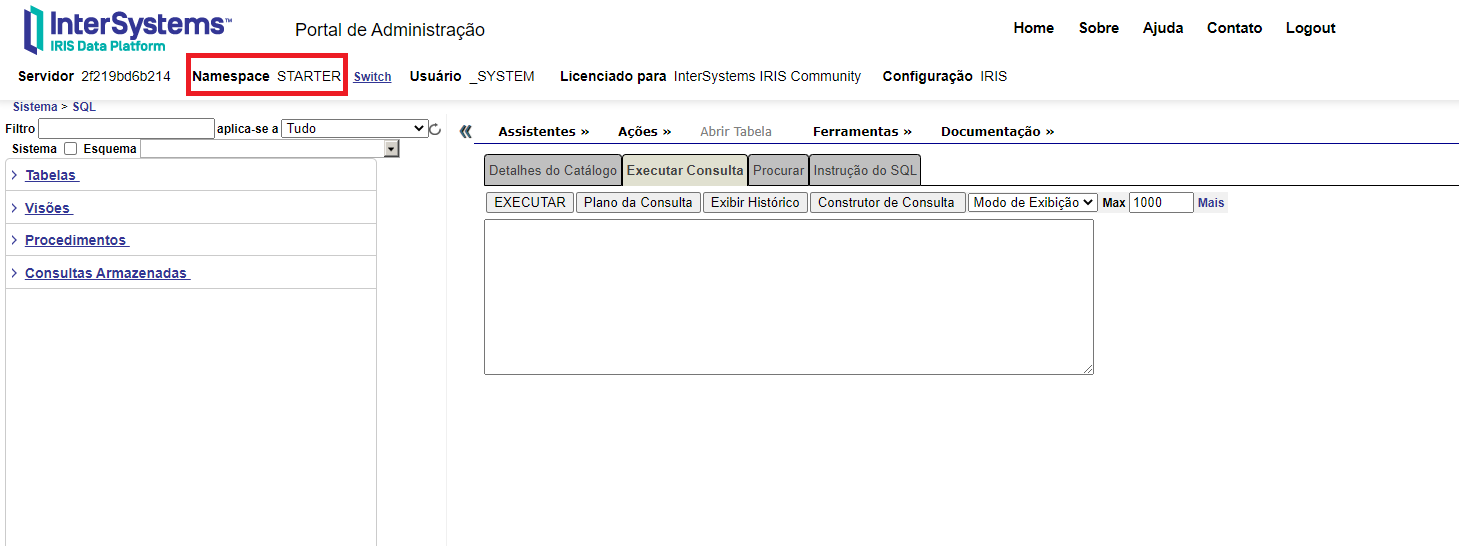
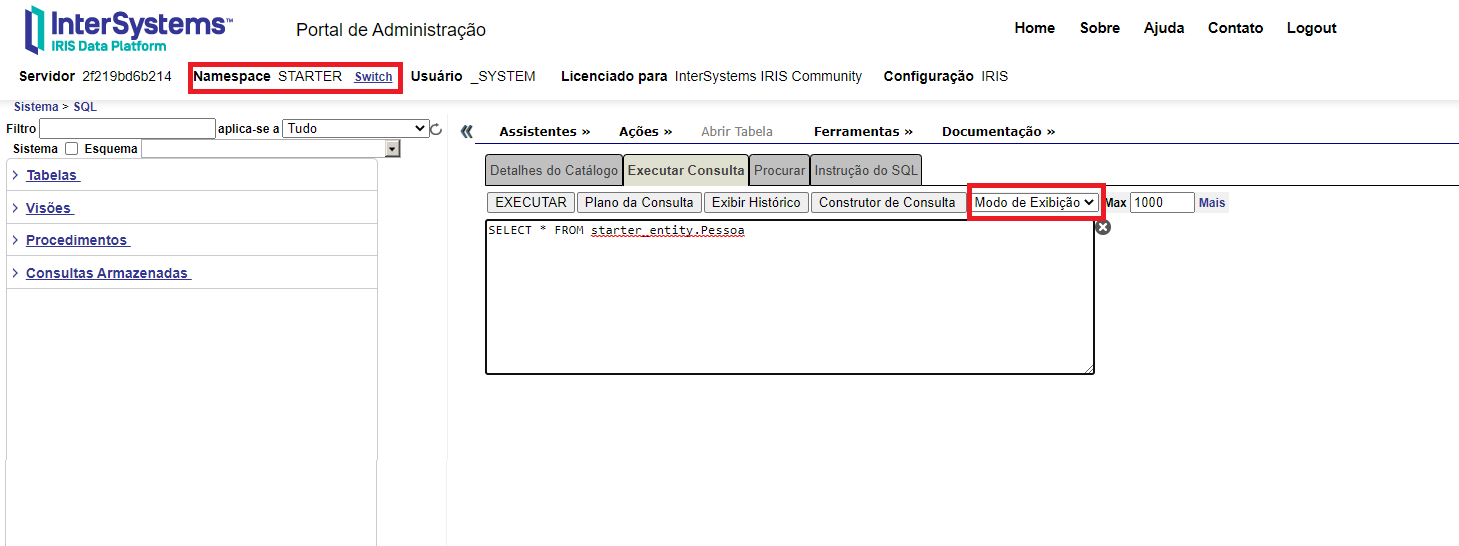
ads

diff --git a/Labs/Starter/InterSystems-IRIS/README.md b/Labs/Starter/InterSystems-IRIS/README.md
@@ -39,7 +39,7 @@ http://localhost:53773/csp/sys/%25CSP.Portal.Home.zen
     - senha: SYS
 ```
 
-## Manutenção do banco de dados
+## Manutenção servidor IRIS
 ### Criando uma namespace
 - Acesse o portal local:  http://localhost:53773/csp/sys/%25CSP.Portal.Home.zen
 - Acesse Sistema > Configuração > Namespaces > Criar novo namespace
@@ -62,17 +62,22 @@ Na edição do usuário é possível definir os direitos de acesso, para adicion
 
 ![irisuserroles.png](/Instructions/images/irisuserroles.png)
 
-Para mais detalhes [Documentação Intersystem contas de usuário] (https://docs.intersystems.com/irislatest/csp/docbook/DocBook.UI.Page.cls?KEY=GAUTHZ_users)
+Para mais detalhes [Documentação Intersystem contas de usuário](https://docs.intersystems.com/irislatest/csp/docbook/DocBook.UI.Page.cls?KEY=GAUTHZ_users)
 
 
-## Executando comandos SQL
-- Pelo portal de admnistração é possível executar comandos SQL através do menu: Sistema > SQL
-- Selecione a namespace que deseja acessar
+### Executando comandos SQL
+- Pelo portal de admnistração é possível executar comandos SQL através do menu: Sistema > SQL, Selecione a namespace que deseja acessar, este editor aceita comandos SQL padrão e específicos Caché/IRIS
 
 ![irissql.png](/Instructions/images/irissql.png)
 
+- Pontos de atenção
+	- O modo de exibição define o tipo de dado retornado quando
+	- Uma tabela criada a partir de uma classe com mais de um pacote por exemplo starter.entity.Pessoa, no nome tabela mantém apenas o último ponto, trocando os primeiros por underline 
+		<outrosPacotes>_starter_entity.Pessoa
+	- Para detalhes sobre as funções disponíveis para os comandos SQL IRI acesse a [Documentação oficial](https://docs.intersystems.com/irislatest/csp/docbook/DocBook.UI.Page.cls?KEY=GSQL_langelements)
 
-## Log de erros
+
+### Log de erros
 Caso seja necessário analisar alguma instabilidade os logs de erros ficam disponíveis no portal de admnistração em:
 
 - Sistema  > Logs do Sistema  > Exibir Log de Erros de Aplicação
